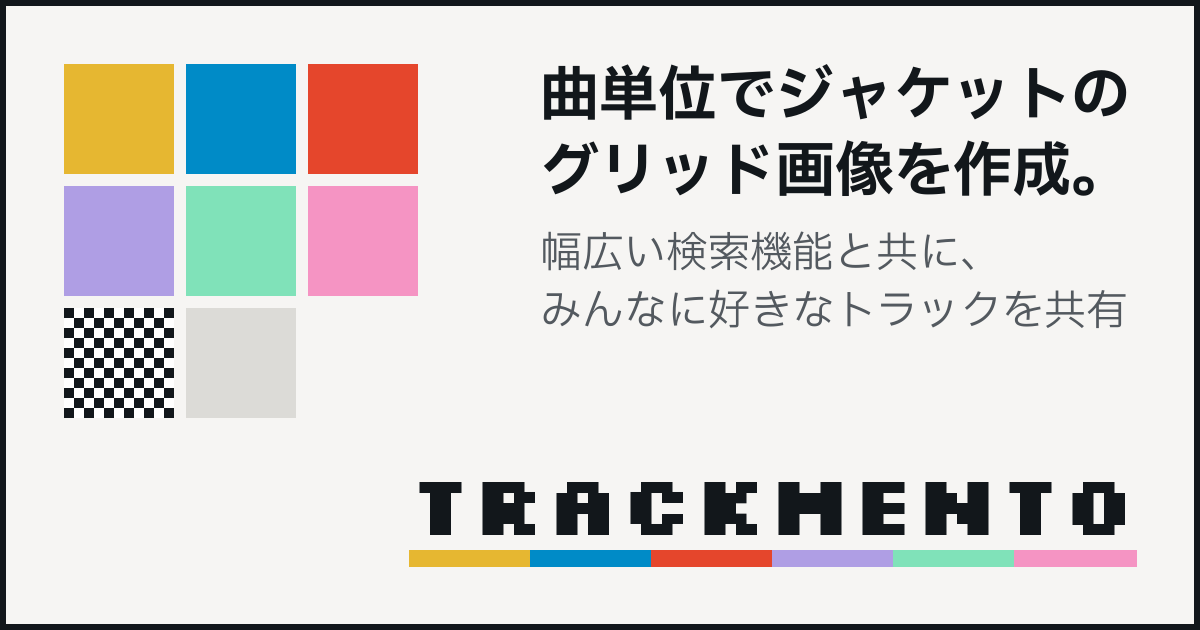
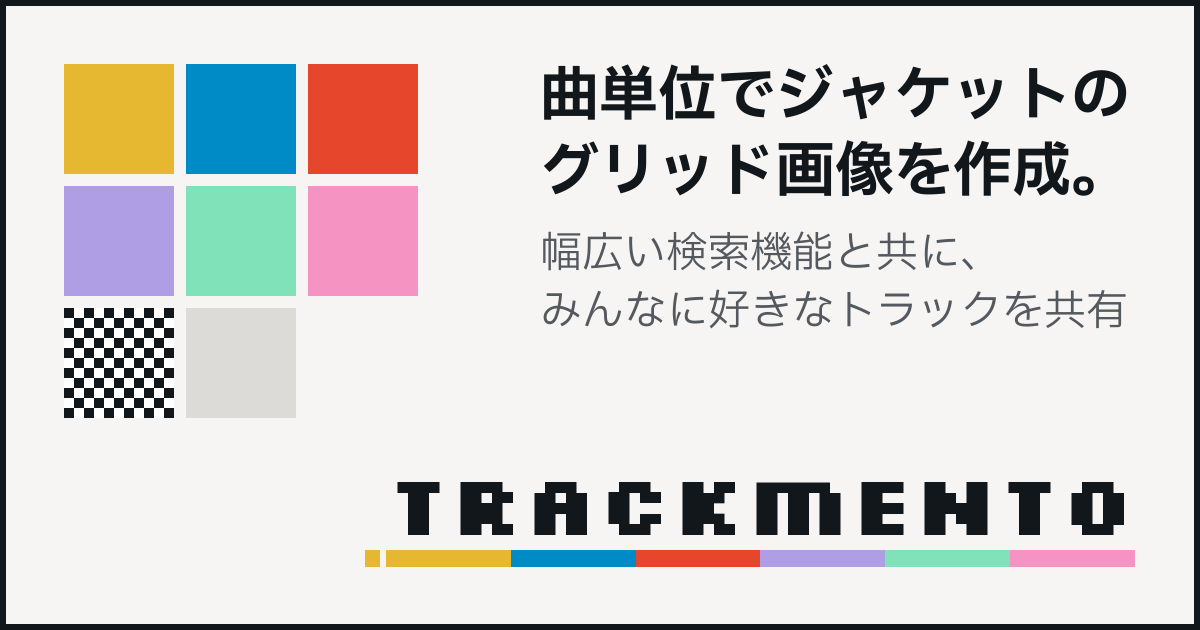
feat: ロゴの M を右上 1 ドット欠きに、下線の頭に小さな四角を足してリンクカード・動画までそろえる
- M は案 C（上に横線＋脚 3 本、右上の角を欠く）。小文字の m らしくなり、H・N と見分けやすい
- 下線はリソ 6 色の帯の左の外に、離して小さな四角（マスタード）を置く形に統一
  （画面・共有ページ・文章ページ・リンクカード・紹介動画）
- リンクカード og.png を scripts/build_og.py で描き直すようにした
- 動画は縦版で M のぶんはみ出したので、ロゴの字を少し小さく（冒頭 118→106、最後 112→102）

Claude-Session: https://claude.ai/code/session_01UsQZLbkYJ9QiQuVKYgQpUm

Changed region(s): [[0.3083, 0.754, 0.7092, 0.9048], [0.2775, 0.8746, 0.3392, 0.9048], [0.74, 0.8746, 0.7708, 0.9048]]

diff --git a/promo/src/Scenes.tsx b/promo/src/Scenes.tsx
@@ -13,6 +13,7 @@ import {
 loadFont({ family: "Plex", url: staticFile("fonts/IBMPlexSansJP-Bold.ttf"), weight: "700" });
 loadFont({ family: "Plex", url: staticFile("fonts/IBMPlexSansJP-Regular.ttf"), weight: "400" });
 loadFont({ family: "Silk", url: staticFile("fonts/Silkscreen-Bold.ttf"), weight: "700" });
+loadFont({ family: "Mark", url: staticFile("fonts/TrackmentoMark-Bold.ttf"), weight: "700" });   // ロゴ専用（M だけ描き替えた Silkscreen。scripts/build_logo_font.py）
 loadFont({ family: "Dot", url: staticFile("fonts/DotGothic16-Regular.ttf"), weight: "400" });
 
 // ---- 色（frontend/index.html のトークンと同じ系統） ----
@@ -32,7 +33,7 @@ type Layout = {
   mark: number; tag: number; sub: number;                     // ワードマーク・見出し・小さめ文字
 };
 const LAYOUTS: Record<LayoutKind, Omit<Layout, "lang">> = {
-  tall: { kind: "tall", W: 1080, H: 1920, phone: { x: 108, y: 330, w: 864, h: 1536 }, jp: 62, en: 36, mark: 112, tag: 64, sub: 40 },
+  tall: { kind: "tall", W: 1080, H: 1920, phone: { x: 108, y: 330, w: 864, h: 1536 }, jp: 62, en: 36, mark: 102, tag: 64, sub: 40 },
   wide: { kind: "wide", W: 1920, H: 1080, phone: { x: 222, y: 215, w: 1476, h: 830 }, jp: 60, en: 34, mark: 140, tag: 60, sub: 38 },
 };
 
@@ -56,17 +57,19 @@ const Paper: React.FC<{ children?: React.ReactNode }> = ({ children }) => (
 );
 
 /** 6 色の帯。拍ごとに 1 色ずつ跳ねる */
-const Stripe: React.FC<{ h?: number; width?: number | string }> = ({ h = 14, width = "100%" }) => {
+// lead … ロゴの下線だけ、頭に離して小さな四角を置く（画面・リンクカードと同じ形。四角は線の太さの 0.88 倍、すき間 0.35 倍）
+const Stripe: React.FC<{ h?: number; width?: number | string; lead?: boolean }> = ({ h = 14, width = "100%", lead = false }) => {
   const { beat, pulse } = useBeatPulse();
   return (
-    <div style={{ width, height: h, display: "flex" }}>
+    <div style={{ width, height: h, display: "flex", position: "relative" }}>
+      {lead && <div style={{ position: "absolute", top: 0, bottom: 0, width: Math.round(h * 0.88), right: `calc(100% + ${Math.round(h * 0.35)}px)`, background: STRIPE[0] }} />}
       {STRIPE.map((c, i) => <div key={c} style={{ flex: 1, background: c, transform: `scaleY(${beat >= 0 && beat % 6 === i ? 1 + pulse * 1.6 : 1})`, transformOrigin: "bottom" }} />)}
     </div>
   );
 };
 
 const Wordmark: React.FC<{ size: number }> = ({ size }) => (
-  <div style={{ fontFamily: "Silk", fontWeight: 700, fontSize: size, letterSpacing: "0.06em", color: C.ink, lineHeight: 1 }}>TRACKMENTO</div>
+  <div style={{ fontFamily: "Mark", fontWeight: 700, fontSize: size, letterSpacing: "0.06em", color: C.ink, lineHeight: 1 }}>TRACKMENTO</div>
 );
 
 // ---- イントロ（2 小節で完了） ----
@@ -85,10 +88,10 @@ const Intro: React.FC<{ L: Layout }> = ({ L }) => {
       <div style={{ display: "flex", gap: L.kind === "tall" ? 6 : 8 }}>
         {letters.map((ch, i) => {
           const s = spring({ frame: frame - beat0 - Math.round((i / letters.length) * beatLen * 0.35), fps, config: { damping: 14, stiffness: 420 } });   // 全文字が 1 拍以内に出る
-          return <span key={i} style={{ fontFamily: "Silk", fontWeight: 700, fontSize: L.kind === "tall" ? 118 : 150, color: C.ink, lineHeight: 1, display: "inline-block", transform: `translateY(${(1 - s) * 60}px)`, opacity: s }}>{ch}</span>;
+          return <span key={i} style={{ fontFamily: "Mark", fontWeight: 700, fontSize: L.kind === "tall" ? 106 : 150, color: C.ink, lineHeight: 1, display: "inline-block", transform: `translateY(${(1 - s) * 60}px)`, opacity: s }}>{ch}</span>;
         })}
       </div>
-      <div style={{ marginTop: 24, opacity: logoIn, transform: `scaleX(${logoIn})` }}><Stripe h={18} width={stripeW} /></div>
+      <div style={{ marginTop: 24, opacity: logoIn, transform: `scaleX(${logoIn})` }}><Stripe h={18} lead width={stripeW} /></div>
       <div style={{ marginTop: L.kind === "tall" ? 80 : 56, textAlign: "center", transform: `translateY(${(1 - taglineIn) * 40}px)`, opacity: taglineIn }}>
         {L.lang === "ja" ? (
           <>
@@ -372,7 +375,7 @@ const EndCard: React.FC<{ L: Layout }> = ({ L }) => {
     <Paper>
       <AbsoluteFill style={{ justifyContent: "center", alignItems: "center", opacity: fade }}>
         <div style={{ transform: `scale(${s * (1 + pulse * 0.03)})` }}><Wordmark size={L.mark} /></div>
-        <div style={{ marginTop: 24 }}><Stripe h={18} width={tall ? 1000 : 1400} /></div>
+        <div style={{ marginTop: 24 }}><Stripe h={18} lead width={tall ? 1000 : 1400} /></div>
         <div style={{ marginTop: tall ? 80 : 56, display: "flex", flexDirection: tall ? "column" : "row", gap: tall ? 12 : 40, alignItems: tall ? "center" : "baseline", opacity: s2, transform: `translateY(${(1 - s2) * 30}px)` }}>
           {L.lang === "ja" && <div style={{ fontFamily: "Plex", fontWeight: 700, fontSize: tall ? 54 : 56, color: C.ink }}>あなたは何曲オススメを？</div>}
           <div style={{ fontFamily: "Dot", fontSize: L.lang === "ja" ? (tall ? 38 : 40) : (tall ? 50 : 52), color: L.lang === "ja" ? C.muted : C.ink }}>What would you pick?</div>

diff --git a/frontend/index.html b/frontend/index.html
@@ -201,13 +201,19 @@ img { max-width: 100%; display: block; }
   font-family: "TrackmentoMark", var(--font-outlier);   /* M が H に見えないよう描き替えたロゴ用（2026-09-19） */
   display: inline-block; line-height: 16px; margin-top: -2px;
   padding-bottom: 10px;
-  background: linear-gradient(to right,
+  /* 線の頭に小さな四角（マスタード）を離して置く（2026-09-19、リンクカード・動画と同じ形）。
+     線は字面から左右に 3px はみ出し、四角（5px 角）はすき間 2px を空けてさらに左の外に出す。
+     箱を左に 10px・右に 3px 広げ、そのぶん負のマージンで打ち消す（ロゴの字の位置は変わらない） */
+  margin-left: -10px; padding-left: 10px; margin-right: -3px; padding-right: 3px;
+  background:
+    linear-gradient(var(--color-mustard), var(--color-mustard)) left bottom / 5px 5px no-repeat,
+    linear-gradient(to right,
     var(--color-mustard)   0 calc(100% / 6),
     var(--color-cerulean)  0 calc(200% / 6),
     var(--color-vermilion) 0 50%,
     var(--color-lavender)  0 calc(400% / 6),
     var(--color-mint)      0 calc(500% / 6),
-    var(--color-pink)      0) bottom / 100% 5px no-repeat;
+    var(--color-pink)      0) right bottom / calc(100% - 7px) 5px no-repeat;
 }
 /* ロゴを押すとトップへ戻る（2026-09-19）。見た目はリンクにしない（色・下線は親のまま） */
 .wordmark a.mark { color: inherit; text-decoration: none; }

diff --git a/scripts/build_og.py b/scripts/build_og.py
@@ -1,0 +1,53 @@
+"""サイトのリンクカード（frontend/og.png）のワードマークを、ロゴ用フォント（TrackmentoMark）で描き直す。
+
+    PYTHONUTF8=1 .venv/Scripts/python scripts/build_og.py
+
+og.png の図と説明文は 2026-09-10 に作ったものをそのまま使い、右下のワードマークと下の色帯だけを消して描き直す
+（何度回しても同じ絵になる）。位置は元の絵から測った値: 字面の右端 1124px・上端 482px、84px、
+色帯は字面から左右に 11px はみ出し、上端 550px・高さ 17px。
+ロゴの M を変えたら scripts/build_logo_font.py → これ、の順に回す。
+"""
+from __future__ import annotations
+
+import pathlib
+
+from PIL import Image, ImageDraw, ImageFont
+
+ROOT = pathlib.Path(__file__).resolve().parent.parent
+OG = ROOT / "frontend" / "og.png"
+FONT = ROOT / "fonts" / "TrackmentoMark-Bold.ttf"
+
+PAPER = (246, 245, 243)
+INK = (18, 23, 27)
+STRIPE = [(230, 183, 49), (0, 139, 199), (229, 70, 44), (175, 158, 228), (128, 226, 185), (245, 148, 195)]
+
+SIZE = 84
+RIGHT, TOP = 1124, 482          # 字面の右端・上端
+BAND_OVER, BAND_TOP, BAND_H = 11, 550, 17
+LEAD_W, LEAD_GAP = 15, 6         # 線の頭に離して置く小さな四角（線の太さの 0.88 倍・すき間 0.35 倍。2026-09-19、利用者が気に入った形）
+CLEAR = (340, 460, 1160, 590)    # 消す範囲（図と説明文にはかからない）
+
+
+def main() -> int:
+    im = Image.open(OG).convert("RGB")
+    d = ImageDraw.Draw(im)
+    d.rectangle(CLEAR, fill=PAPER)
+    f = ImageFont.truetype(str(FONT), SIZE)
+    # getbbox は送り幅まで含むので、実際に描いた字面で測る
+    probe = Image.new("L", (2000, 300), 0)
+    ImageDraw.Draw(probe).text((0, 0), "TRACKMENTO", font=f, fill=255)
+    x0, y0, x1, y1 = probe.point(lambda v: 255 if v >= 128 else 0).getbbox()
+    ox, oy = RIGHT - x1, TOP - y0
+    d.text((ox, oy), "TRACKMENTO", font=f, fill=INK)
+    left, right = ox + x0 - BAND_OVER, RIGHT + BAND_OVER
+    d.rectangle((left - LEAD_GAP - LEAD_W, BAND_TOP, left - LEAD_GAP - 1, BAND_TOP + BAND_H - 1), fill=STRIPE[0])
+    w = (right - left) / len(STRIPE)
+    for i, c in enumerate(STRIPE):
+        d.rectangle((round(left + i * w), BAND_TOP, round(left + (i + 1) * w) - 1, BAND_TOP + BAND_H - 1), fill=c)
+    im.save(OG, optimize=True)
+    print(f"書き出し: {OG.relative_to(ROOT)}（字面 {ox + x0}〜{RIGHT}px × {oy + y0}〜{oy + y1}px）")
+    return 0
+
+
+if __name__ == "__main__":
+    raise SystemExit(main())

diff --git a/backend/share.py b/backend/share.py
@@ -358,16 +358,19 @@ def _page_css(base: str) -> str:
 body {{ margin: 0; background: #f6f5f3; color: #12171b; font-family: "Hiragino Sans", "Noto Sans JP", "Yu Gothic UI", "Meiryo", sans-serif; line-height: 1.55; }}
 header {{ display: flex; align-items: baseline; gap: 8px; padding: 10px 16px; border-bottom: 2px solid #12171b; }}
 /* ワードマークは本体（frontend/index.html の .wordmark .mark）と同じ規則: Silkscreen 25px、行送り 16px（大文字のインク高）、
-   インクの 3px 下にリソ 6 色の太線（5px）。色も本体の oklch トークンと同値 */
+   インクの 3px 下にリソ 6 色の太線（5px）、線の頭に離して 5px 角の四角。色も本体の oklch トークンと同値 */
 .mark {{ font-family: "TrackmentoMark", "Silkscreen", "DotGothic16", monospace; font-weight: 700; font-size: 1.5625rem; letter-spacing: .04em; white-space: nowrap;
   display: inline-block; line-height: 16px; margin-top: -2px; padding-bottom: 10px;
-  background: linear-gradient(to right,
+  margin-left: -10px; padding-left: 10px; margin-right: -3px; padding-right: 3px;
+  background:
+    linear-gradient(oklch(80% 0.150 88), oklch(80% 0.150 88)) left bottom / 5px 5px no-repeat,
+    linear-gradient(to right,
     oklch(80% 0.150 88)  0 calc(100% / 6),
     oklch(60% 0.140 235) 0 calc(200% / 6),
     oklch(62% 0.200 32)  0 50%,
     oklch(74% 0.100 295) 0 calc(400% / 6),
     oklch(84% 0.110 165) 0 calc(500% / 6),
-    oklch(78% 0.130 350) 0) bottom / 100% 5px no-repeat; }}
+    oklch(78% 0.130 350) 0) right bottom / calc(100% - 7px) 5px no-repeat; }}
 small {{ color: #53595f; }}
 main {{ max-width: 56rem; margin: 0 auto; padding: 16px; display: grid; gap: 16px; }}
 h1 {{ font-weight: 700; font-size: 1.25rem; margin: 0; }}

diff --git a/CLAUDE.md b/CLAUDE.md
@@ -1244,6 +1244,15 @@ https://forms.gle/2ktpQAXMjJrkFJFz8 （2026-09-19。新しい回答は to6okegao
   - 画面（`frontend/index.html`）: 選んだソースで 0 件かつ失敗も無いときだけ MusicBrainz を直接引き、
     「iTunes に無かったので MusicBrainz でも探しました。」と添える
   - 画面のソース選択の既定は前から iTunes だけだったので、**遅かったのは `source` を省く呼び出し**（CLI・API）
+- **ロゴ（ワードマーク）**（2026-09-19）。Silkscreen Bold の M は中の段が詰まっていて H に見えたので、**M だけ描き替えた
+  ロゴ専用フォント `TrackmentoMark`** を使う（`scripts/build_logo_font.py`、案 C = 上に横線＋脚 3 本、右上の角を 1 ドット欠く）。
+  使うのはロゴだけ（画面・共有ページ・文章ページ・リンクカード・紹介動画）。ほかの Silkscreen の文字と URL 表示は元のまま
+  - **下線は「リソ 6 色の帯＋頭に離して置いた小さな四角（マスタード）」**。帯は字面から左右に少しはみ出し、四角はその左の外
+    （四角は帯の太さの約 0.9 倍、すき間 0.35 倍）。リンクカードを作り直したときに偶然できた形を利用者が気に入り、全部そろえた。
+    画面は `.wordmark .mark`、共有ページは `share.py` の `.mark`（どちらも箱を負のマージンで広げて四角を外に出す）、
+    リンクカードは `scripts/build_og.py`、動画は `Stripe` の `lead`
+  - M を変えたら: `build_logo_font.py` → `upload_fonts_r2.py`（名前が同じなので毎回上げ直す）→ `build_og.py` →
+    `promo/public/fonts/` へ ttf を写す。URL の `?v=` に中身のハッシュが付くので、ブラウザの古いキャッシュは踏まない
 - 動作確認は各ステップごとブラウザで（`claude-in-chrome` または手動）。サーバー `--reload` なし起動時、コード変更後再起動必要
 
 ## 調べ直さないための覚え書き（一度引っかかったもの）
